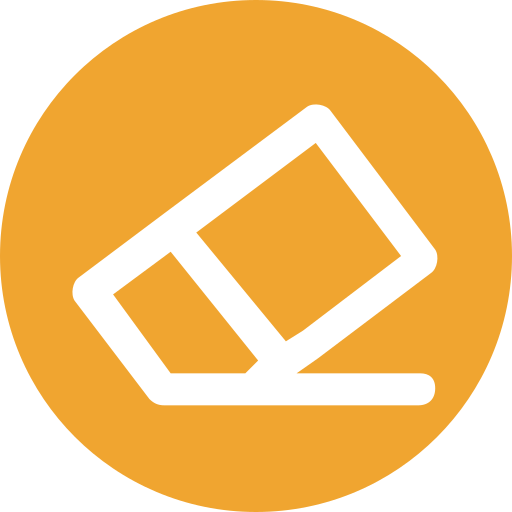
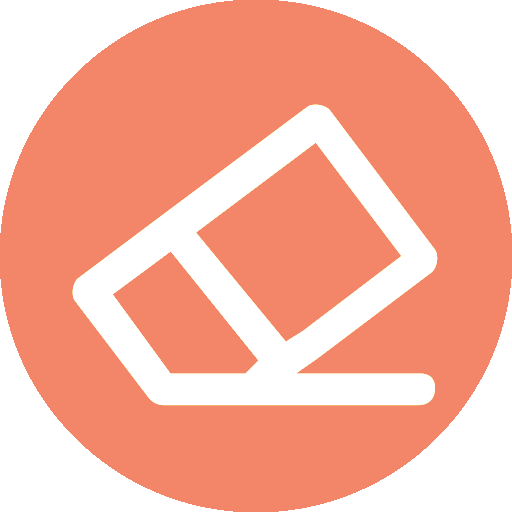
Let's Play Tic-Tac-Toe V1.4 - Fix Colors and Add Modal Backgrounds

diff --git a/index.html b/index.html
@@ -5,11 +5,11 @@
     <meta name="viewport" content="width=device-width, initial-scale=1.0" />
     <title>Variety Verse</title>
     <link rel="stylesheet" href="style.css" />
-    <link rel="shortcut icon" href="meme-favicon.png" type="image/x-icon" />
+    <link rel="shortcut icon" href="img/favicon.ico" type="image/x-icon" />
   </head>
   <body>
     <header>
-      <img src="meme-favicon.png" alt="meme-favicon" />
+      <img src="img/meme-favicon.png" alt="meme-favicon" />
       <div class="header-title">
         <h2>VarietyVerse</h2>
         <h4>You Click, I Generate</h4>

diff --git a/style.css b/style.css
@@ -9,7 +9,7 @@
 
 :root {
   --primary: #3c3c3a;
-  --secondary: #f0a530;
+  --secondary: #f48668;
   --accent: #1da1f2;
   --sidePadding: 6px;
 }
@@ -209,8 +209,8 @@ main {
   padding: 5px 18px;
   transform: translateY(-0px);
   color: #fff;
-  background-color: #f0a530;
-  border: solid 2px #f0a530;
+  background-color: var(--secondary);
+  border: solid 2px var(--secondary);
 }
 
 /*Clear Button Style*/
